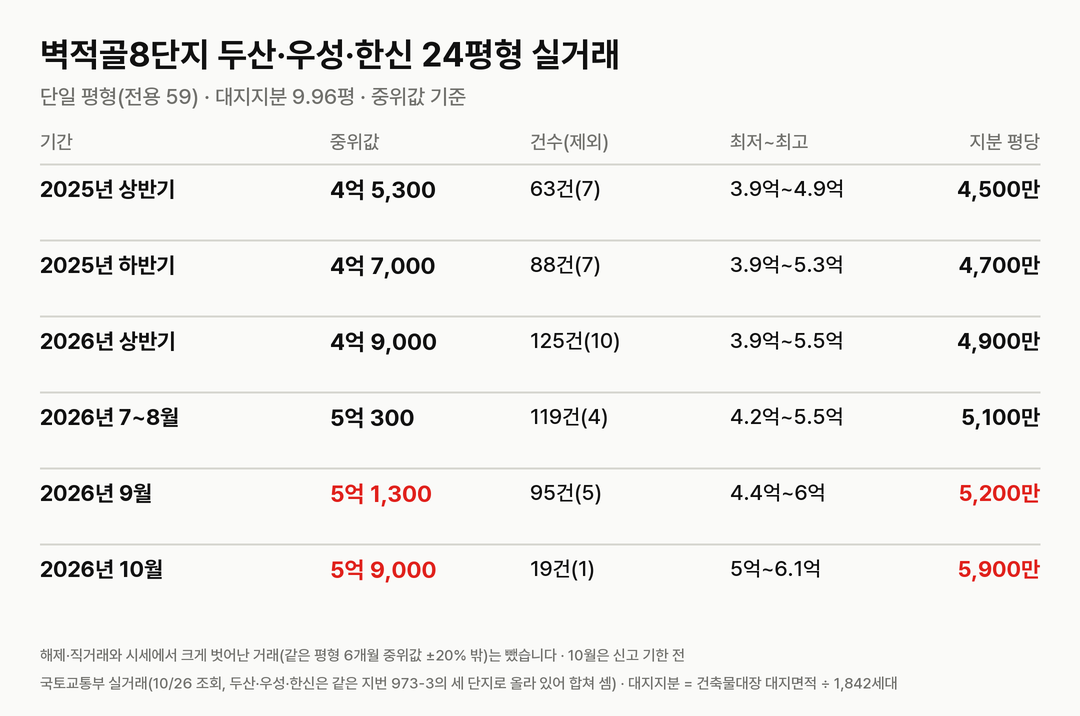
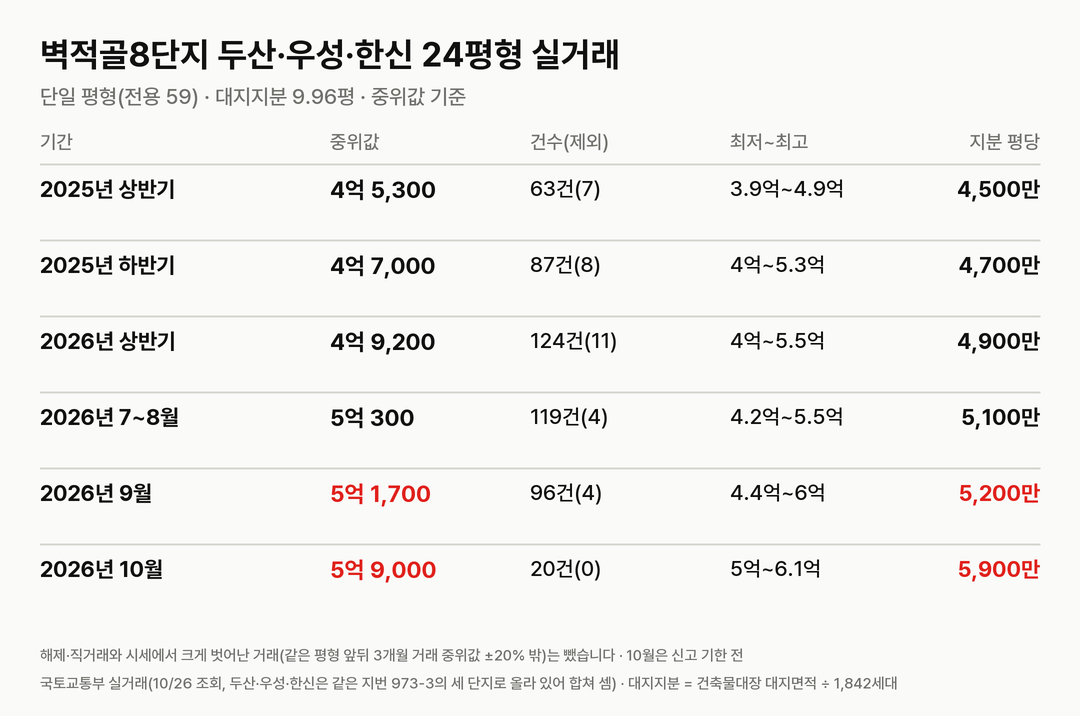
content: 단지 1~3편 실거래 이상치 창을 앞뒤 3개월로 보정하고 적정 입주량·적정 대비·연속 상승 주수를 자리표로 바꿈

diff --git a/content/danji/byeokjeokgol8-yeongtong.md b/content/danji/byeokjeokgol8-yeongtong.md
@@ -1,8 +1,8 @@
 ---
 title: 영통 벽적골8단지 두산·우성·한신 리모델링, 1,842세대 이주 시작과 거래 급증(2026)
-summary: 벽적골8단지 두산·우성·한신은 2026년 8월 이주를 시작했고 9월 매매 95건으로 영통구 거래의 19%였다.
+summary: 벽적골8단지 두산·우성·한신은 2026년 8월 이주를 시작했고 9월 매매 96건으로 영통구 거래의 19%였다.
 date: 2026-10-26
-updated: 2026-10-26
+updated: 2026-10-27
 section: danji
 region: 경기
 sources:
@@ -20,7 +20,7 @@ faq:
   - q: 리모델링 뒤 세대수와 입주 목표는 어떻게 되나요
     a: 1,842세대가 지하 4층~최고 21층, 2,035세대로 바뀌고 입주 목표는 2031년 12월입니다.
   - q: 벽적골8단지 24평형 시세는 얼마인가요
-    a: 2026년 10월 신고분 19건의 중위값이 5억 9,000만 원으로, 2025년 상반기 중위값 4억 5,300만 원보다 30% 높습니다(해제·직거래·이상치 제외).
+    a: 2026년 10월 신고분 20건의 중위값이 5억 9,000만 원으로, 2025년 상반기 중위값 4억 5,300만 원보다 30% 높습니다(해제·직거래·이상치 제외).
   - q: 벽적골주공8단지와 같은 단지인가요
     a: 아닙니다. 벽적골주공8단지(휴먼시아, 1,548세대)는 포스코이앤씨가 시공사인 별개 리모델링 사업입니다.
 ---
@@ -61,19 +61,19 @@ faq:
 | 기간 | 건수(제외) | 최저~최고 | 중위값 | 대지지분 1평당(중위값) |
 |---|---|---|---|---|
 | 2025년 상반기 | 63건(7) | 3억 9,000만~4억 9,200만 | 4억 5,300만 | 4,500만 |
-| 2025년 하반기 | 88건(7) | 3억 8,800만~5억 2,800만 | 4억 7,000만 | 4,700만 |
-| 2026년 상반기 | 125건(10) | 3억 9,300만~5억 5,500만 | 4억 9,000만 | 4,900만 |
+| 2025년 하반기 | 87건(8) | 3억 9,500만~5억 2,800만 | 4억 7,000만 | 4,700만 |
+| 2026년 상반기 | 124건(11) | 4억~5억 5,500만 | 4억 9,200만 | 4,900만 |
 | 2026년 7~8월 | 119건(4) | 4억 2,000만~5억 5,000만 | 5억 300만 | 5,100만 |
-| 2026년 9월 | 95건(5) | 4억 4,000만~6억 | 5억 1,300만 | 5,200만 |
-| 2026년 10월 | 19건(1) | 5억~6억 600만 | 5억 9,000만 | 5,900만 |
+| 2026년 9월 | 96건(4) | 4억 4,000만~6억 300만 | 5억 1,700만 | 5,200만 |
+| 2026년 10월 | 20건(0) | 5억~6억 1,000만 | 5억 9,000만 | 5,900만 |
 
-해제·직거래와 시세에서 크게 벗어난 거래(같은 평형 최근 6개월 중위값 ±20% 밖)는 뺐습니다. 괄호 안은 뺀 건수다.
+해제·직거래와 시세에서 크게 벗어난 거래(같은 평형 앞뒤 3개월 거래 중위값 ±20% 밖)는 뺐습니다. 괄호 안은 뺀 건수다.
 
 국토교통부 실거래에는 두산·우성·한신이 같은 지번(영통동 973-3)의 세 단지로 올라 있어 합쳐 셌다. 10월은 신고 기한 전 값이다.
 
 ![월별 매매 건수](img/byeokjeokgol8-yeongtong-trades.png)
 
-2026년 1~6월 월 11~34건이던 매매가 이주 공고 뒤 7월 52건, 8월 67건, 9월 95건으로 늘었다. 9월 영통구 아파트 매매 501건(해제·직거래 제외) 가운데 19%가 이 단지였다. 분담금이 정해지고 이주가 시작되면서 사업 성사 여부에 대한 불확실성이 사라진 시점과 겹친다.
+2026년 1~6월 월 11~34건이던 매매가 이주 공고 뒤 7월 52건, 8월 67건, 9월 96건으로 늘었다. 9월 영통구 아파트 매매 501건(해제·직거래 제외) 가운데 19%가 이 단지였다. 분담금이 정해지고 이주가 시작되면서 사업 성사 여부에 대한 불확실성이 사라진 시점과 겹친다.
 
 ![시세 추이](img/byeokjeokgol8-yeongtong-price.png)
 
@@ -110,7 +110,7 @@ faq:
 
 {{table:moveins:수원}}
 
-수원의 2027년 입주 물량은 {{v:moveins:수원:2027}}, 2028년은 {{v:moveins:수원:2028}}다. 적정 입주량은 2026년 9월 주민등록 인구를 가구당 2.5명으로 나눈 가구 수의 2%로 잡는다. 주간 시세 흐름은 아래와 같다.
+수원의 2027년 입주 물량은 {{v:moveins:수원:2027}}, 2028년은 {{v:moveins:수원:2028}}로 한 해 적정 입주량 {{v:need:수원}}의 {{v:share:수원:2027}}, {{v:share:수원:2028}}다. 적정 입주량은 2026년 9월 주민등록 인구를 가구당 2.5명으로 나눈 가구 수의 2%로 잡는다. 영통구 매매가는 {{v:streak:영통구}}이고, 주간 시세 흐름은 아래와 같다.
 
 {{table:weekly:수원}}
 

diff --git a/content/danji/podo-sambo-yeongnam.md b/content/danji/podo-sambo-yeongnam.md
@@ -75,19 +75,19 @@ faq:
 
 | 평형 | 대지지분(추정) | 2025년 상반기 건수(제외)·범위·중위값 | 2026년 7~10월 건수(제외)·범위·중위값 | 대지지분 1평당(2026) |
 |---|---|---|---|---|
-| 23평형(전용 59.95㎡) | 10.6평 | 7건(1) 5억 5,000만~6억, 5억 6,500만 | 2건(1) 6억 9,000만~7억 4,000만, 7억 1,500만 | 6,800만 |
+| 23평형(전용 59.95㎡) | 10.6평 | 7건(1) 5억 5,000만~6억, 5억 6,500만 | 3건(0) 6억 9,000만~7억 4,000만, 7억 4,000만 | 7,000만 |
 | 28평형(전용 75.19㎡) | 12.9평 | 14건(0) 6억~6억 6,700만, 6억 3,000만 | 10건(1) 6억 7,500만~8억 2,300만, 7억 5,300만 | 5,800만 |
 | 31평형(전용 84.85㎡, 국평) | 14.3평 | 4건(0) 6억 2,300만~7억 200만, 6억 6,700만 | 8건(1) 7억 3,000만~8억 3,700만, 7억 9,900만 | 5,600만 |
 
-해제·직거래와 시세에서 크게 벗어난 거래(같은 평형 최근 6개월 중위값 ±20% 밖)는 뺐습니다. 괄호 안은 뺀 건수다. 국토교통부 실거래에는 '포도마을(삼보)'와 '포도마을(영남)'이 같은 지번(중동 1170)으로 올라 있어 합쳐 셌다. 대지지분은 건축물대장 대지면적을 평형별 공급면적 비율로 나눈 추정값이다.
+해제·직거래와 시세에서 크게 벗어난 거래(같은 평형 앞뒤 3개월 거래 중위값 ±20% 밖)는 뺐습니다. 괄호 안은 뺀 건수다. 국토교통부 실거래에는 '포도마을(삼보)'와 '포도마을(영남)'이 같은 지번(중동 1170)으로 올라 있어 합쳐 셌다. 대지지분은 건축물대장 대지면적을 평형별 공급면적 비율로 나눈 추정값이다.
 
-2025년 상반기 대비 2026년 7~10월 중위값은 23평형 27%, 28평형 19%, 국평 20% 올랐다. 매매 건수는 2025년 상반기 25건, 하반기 36건, 2026년 상반기 57건, 7~10월 20건이다(10월은 신고 기한 전).
+2025년 상반기 대비 2026년 7~10월 중위값은 23평형 31%, 28평형 19%, 국평 20% 올랐다. 매매 건수는 2025년 상반기 25건, 하반기 36건, 2026년 상반기 57건, 7~10월 21건이다(10월은 신고 기한 전).
 
 ![시세 추이](img/podo-sambo-yeongnam-price.png)
 
 | 평형 | 매매 호가(2026-10-26) | 전세 실거래 건수(제외)·중위값(2026년 5~10월) | 갭 | 전세가율 |
 |---|---|---|---|---|
-| 23평형 | 2건, 7억 4,000만~7억 5,500만 | 6건(0), 3억 7,000만 | 3억 4,500만 | 52% |
+| 23평형 | 2건, 7억 4,000만~7억 5,500만 | 6건(0), 3억 7,000만 | 3억 7,000만 | 50% |
 | 28평형 | 3건, 8억 3,000만~8억 5,000만 | 21건(1), 4억 2,000만 | 3억 3,300만 | 56% |
 | 국평 | 4건, 8억 1,000만~8억 7,500만 | 13건(0), 4억 8,000만 | 3억 1,900만 | 60% |
 
@@ -112,7 +112,7 @@ faq:
 
 {{table:moveins:부천}}
 
-부천의 2027년 입주 물량은 {{v:moveins:부천:2027}}다. 적정 입주량은 2026년 9월 주민등록 인구를 가구당 2.5명으로 나눈 가구 수의 2%로 잡는다.
+부천의 2027년 입주 물량은 {{v:moveins:부천:2027}}로 한 해 적정 입주량 {{v:need:부천}}의 {{v:share:부천:2027}}다. 적정 입주량은 2026년 9월 주민등록 인구를 가구당 2.5명으로 나눈 가구 수의 2%로 잡는다. 원미구 매매가는 {{v:streak:부천 원미구}}이다.
 
 {{table:weekly:부천}}
 

diff --git a/content/danji/areum4-imae.md b/content/danji/areum4-imae.md
@@ -2,7 +2,7 @@
 title: 분당 이매동 아름마을4단지 두산삼호 재건축, 대지지분·실거래·사업 단계(2026)
 summary: 아름마을4단지 두산삼호 국평 실거래 중위값은 2026년 17억 3,000만 원으로 35% 올랐고 분당 2차 정비구역에는 빠졌다.
 date: 2026-10-26
-updated: 2026-10-26
+updated: 2026-10-27
 section: danji
 region: 경기
 sources:
@@ -49,7 +49,7 @@ faq:
 | 57평형(전용 158.4㎡) | 176 | 27.3평 | 5건(0) 18억~18억 5,000만, 18억 1,000만 | 거래 없음(제외 1) | - |
 | 63평형(전용 178.23㎡) | 8 | 30.2평 | 거래 없음 | 거래 없음 | - |
 
-해제·직거래와 시세에서 크게 벗어난 거래(같은 평형 최근 6개월 중위값 ±20% 밖)는 뺐습니다. 괄호 안은 뺀 건수다.
+해제·직거래와 시세에서 크게 벗어난 거래(같은 평형 앞뒤 3개월 거래 중위값 ±20% 밖)는 뺐습니다. 괄호 안은 뺀 건수다.
 
 대지지분은 건축물대장 대지면적을 평형별 공급면적 비율로 나눈 추정값이다. 47평형 이상이 668세대로 전체의 59%다. 국토교통부 실거래에는 같은 지번(이매동 133)이 '아름마을(두산)'과 '아름마을(삼호)' 두 이름으로 올라 있어 합쳐 셌다.
 
@@ -115,7 +115,7 @@ faq:
 
 {{table:moveins:성남}}
 
-성남의 2027년 입주 물량은 {{v:moveins:성남:2027}}다. 적정 입주량은 2026년 9월 주민등록 인구를 가구당 2.5명으로 나눈 가구 수의 2%로 잡는다. 주간 시세 흐름은 아래와 같다.
+성남의 2027년 입주 물량은 {{v:moveins:성남:2027}}로 한 해 적정 입주량 {{v:need:성남}}의 {{v:share:성남:2027}}다. 적정 입주량은 2026년 9월 주민등록 인구를 가구당 2.5명으로 나눈 가구 수의 2%로 잡는다. 분당구 매매가는 {{v:streak:분당구}}이고, 주간 시세 흐름은 아래와 같다.
 
 {{table:weekly:성남}}
 
